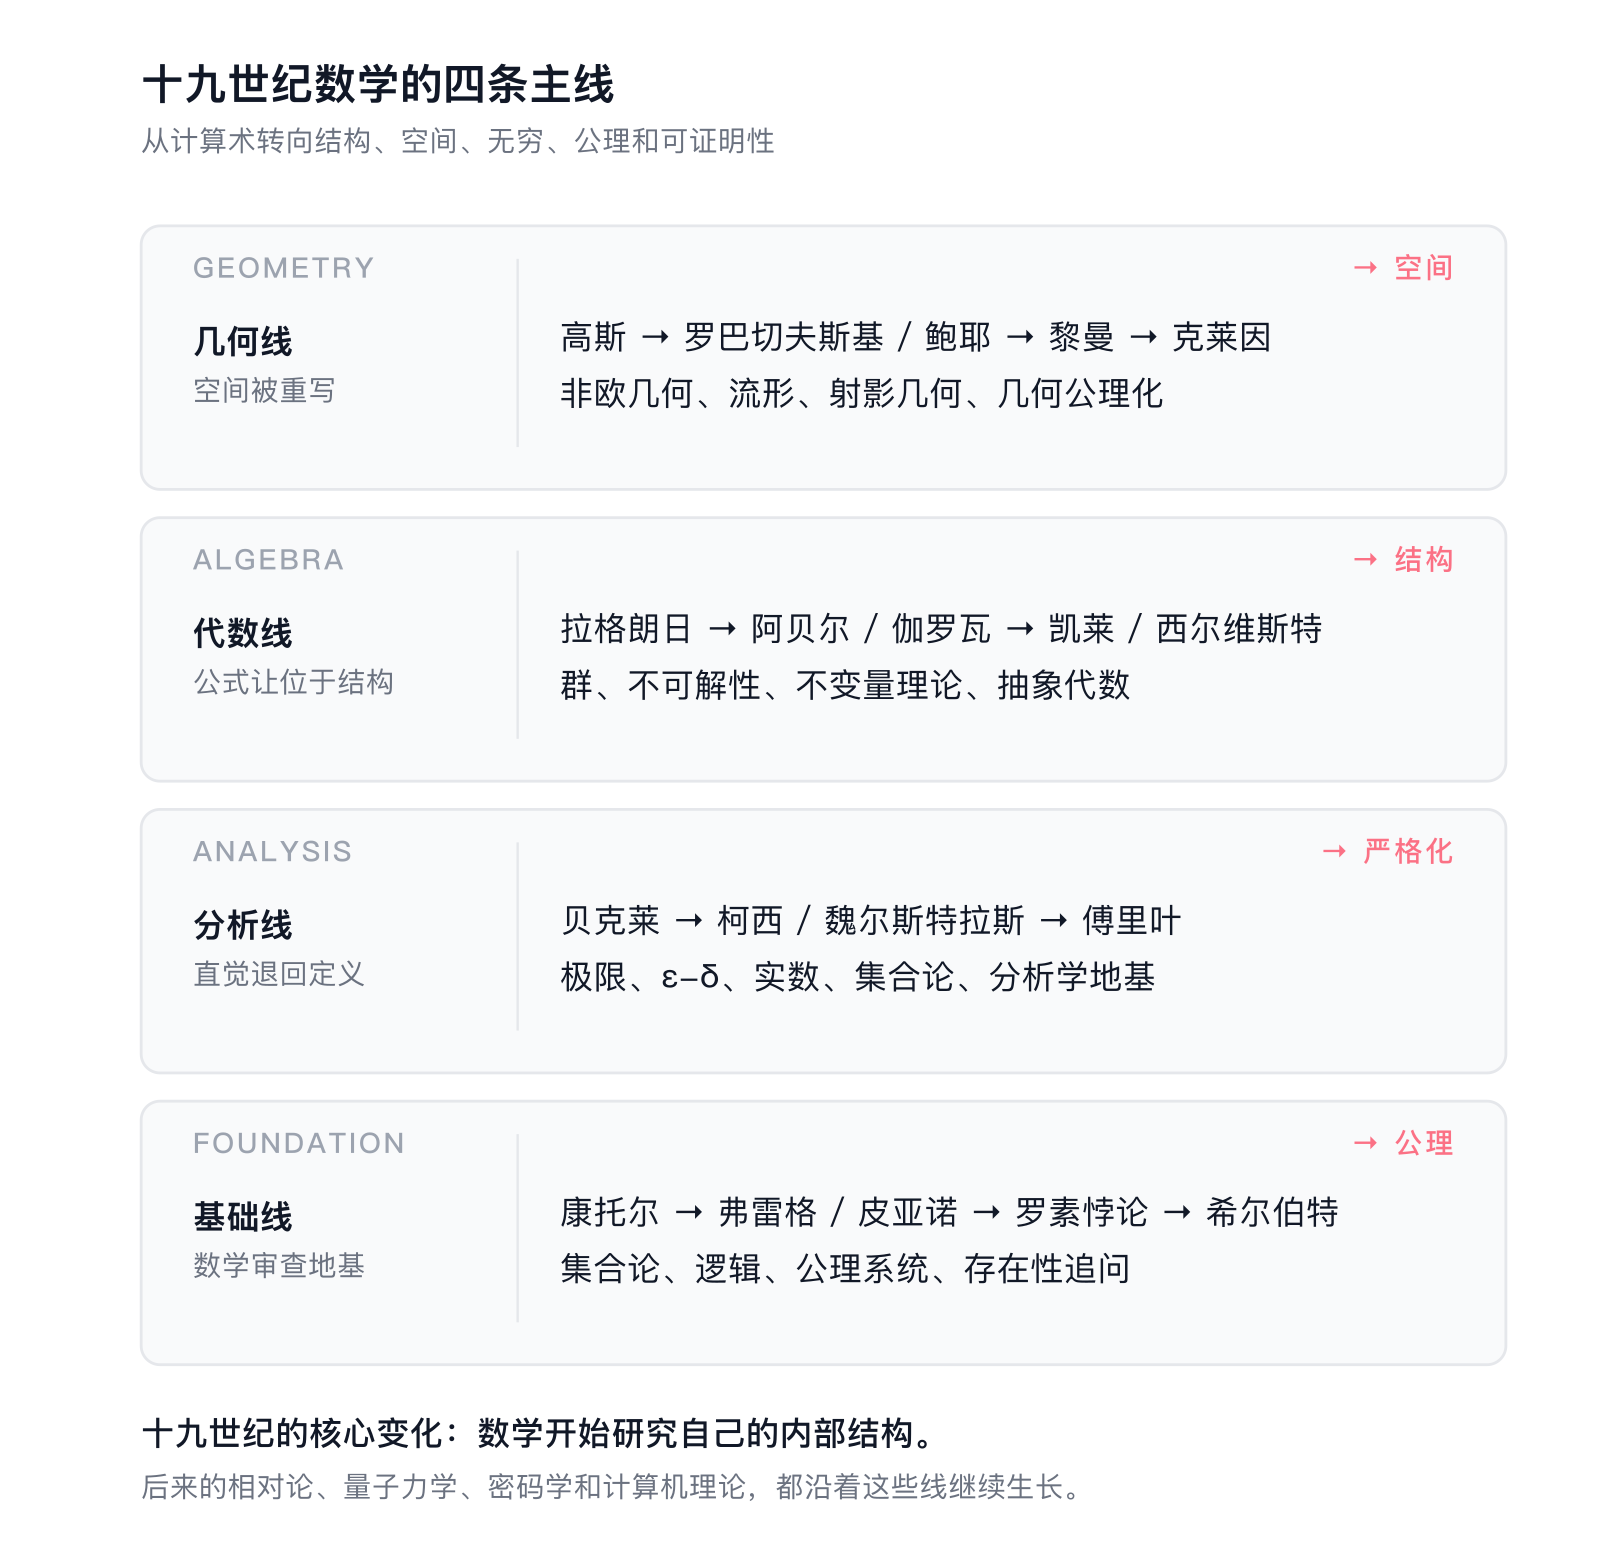
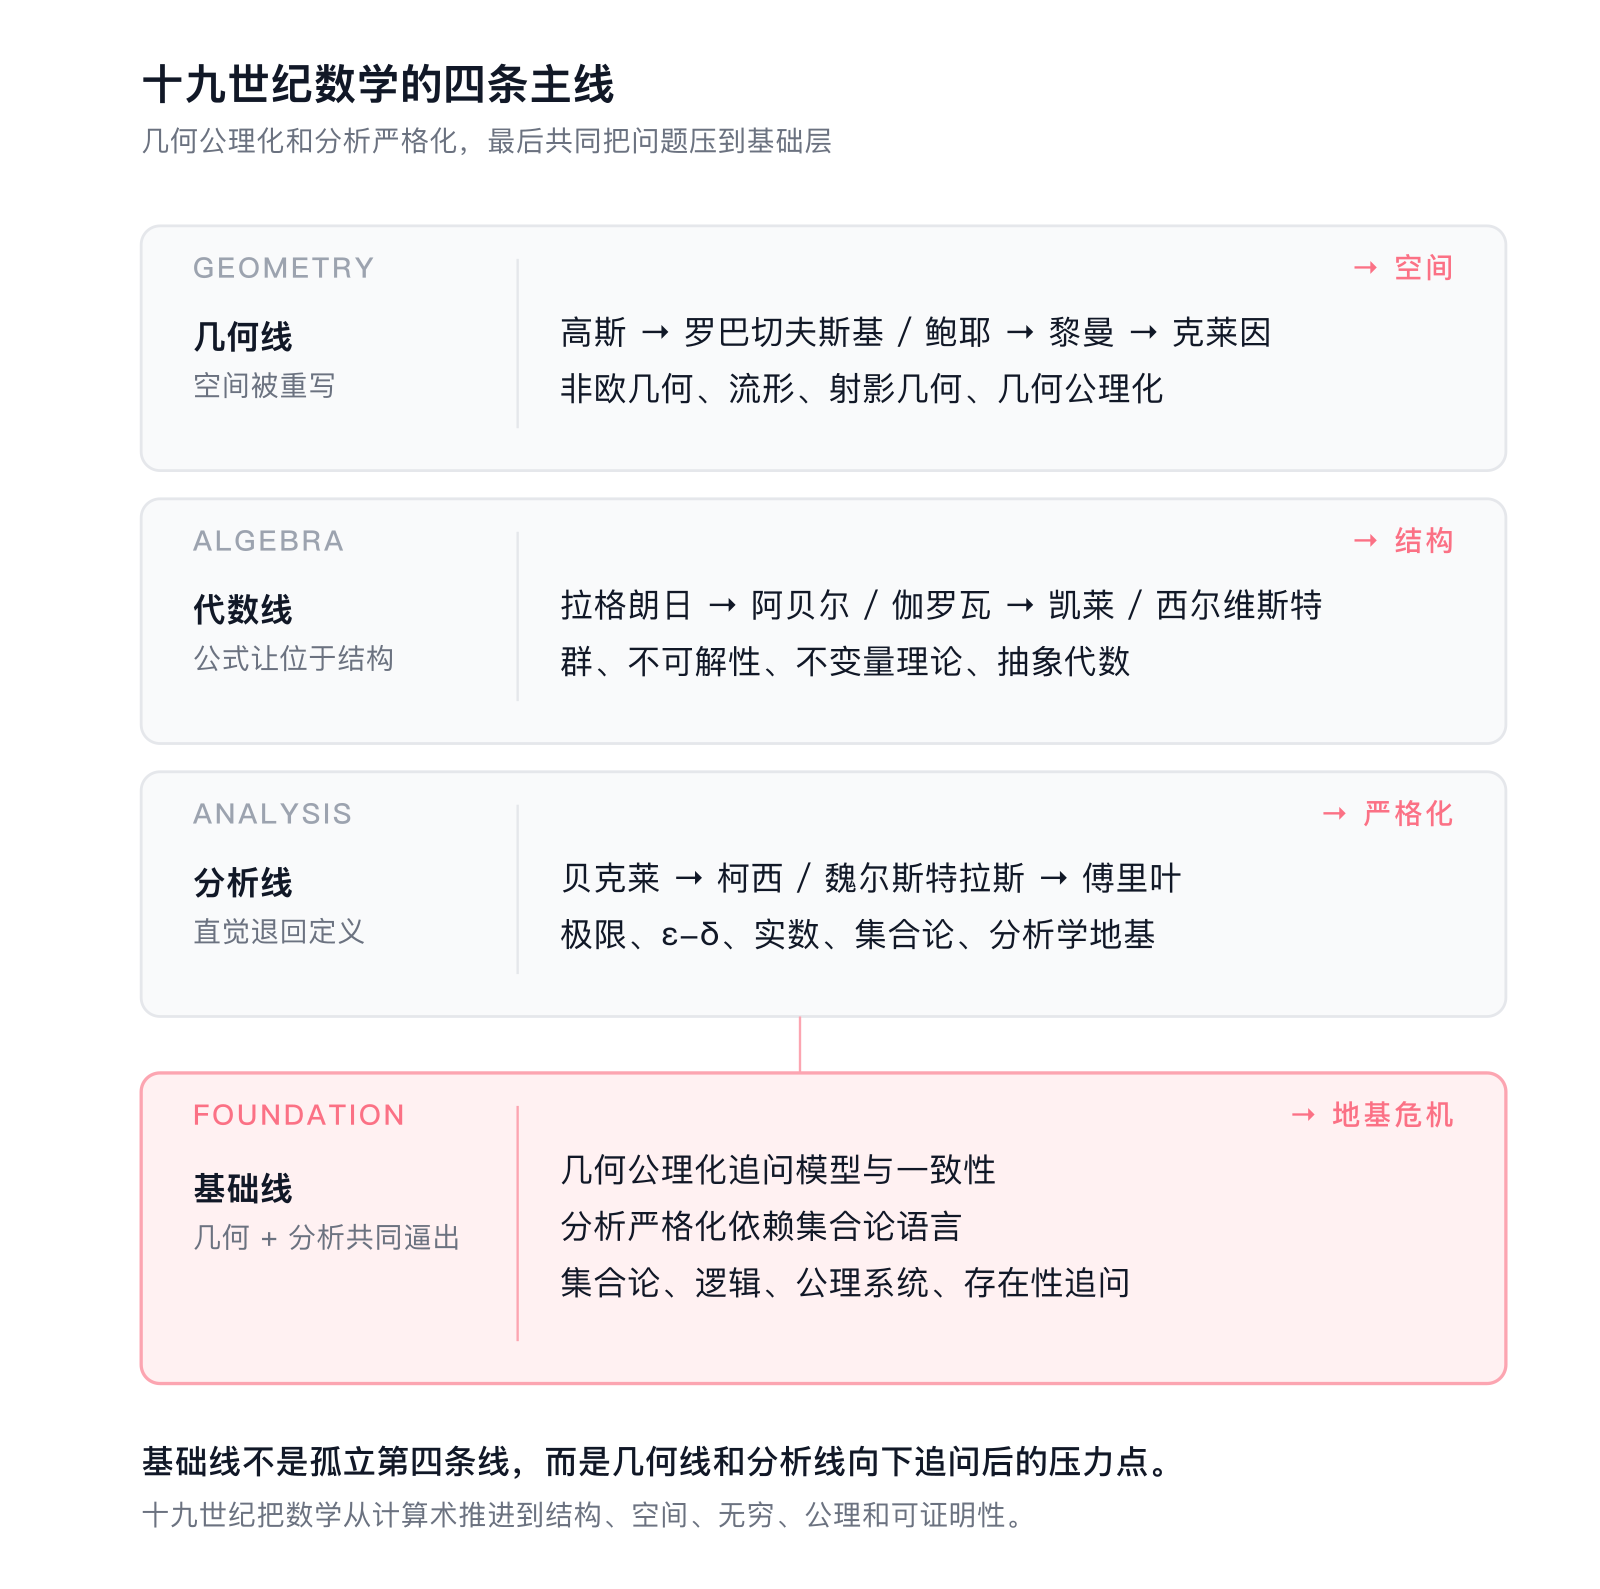
Revise nineteenth century math lines diagram

diff --git a/diagram/math-19th-century-four-lines/plan.md b/diagram/math-19th-century-four-lines/plan.md
@@ -4,28 +4,30 @@
 **Diagrams**: 1
 **Type**: structural, stacked sibling containers
 **Slug**: `math-19th-century-four-lines`
-**Reader need**: "After seeing this diagram, the reader understands the four nineteenth-century mathematical lines and what each line finally formed."
+**Reader need**: "After seeing this diagram, the reader understands the four nineteenth-century mathematical lines, especially that foundations is the pressure point produced by geometry axiomatization and analysis rigorization."
 
 ```mermaid
 flowchart TD
   G[几何线<br/>高斯 → 罗巴切夫斯基/鲍耶 → 黎曼 → 克莱因<br/>非欧几何、流形、射影几何、公理化]
   A[代数线<br/>拉格朗日 → 阿贝尔/伽罗瓦 → 凯莱/西尔维斯特 → 希尔伯特<br/>群、结构、不可解性、不变量理论]
   N[分析线<br/>贝克莱 → 柯西/魏尔斯特拉斯 → 傅里叶 → 康托尔/戴德金<br/>极限、ε-δ、实数、集合论、严格化]
-  F[基础线<br/>康托尔 → 弗雷格/皮亚诺 → 罗素悖论 → 希尔伯特问题<br/>集合论、逻辑、公理系统、地基追问]
+  F[基础线<br/>几何公理化 + 分析严格化共同逼出<br/>集合论、逻辑、公理系统、地基追问]
+  G --> F
+  N --> F
 ```
 
 ## Layout
 
-- Canvas: `viewBox="0 0 680 655"`
+- Canvas: `viewBox="0 0 680 675"`
 - Title: y=42, subtitle: y=64
 - Four containers:
-  - Geometry: x=60, y=96, w=580, h=112
-  - Algebra: x=60, y=220, w=580, h=112
-  - Analysis: x=60, y=344, w=580, h=112
-  - Foundations: x=60, y=468, w=580, h=112
+  - Geometry: x=60, y=96, w=580, h=104
+  - Algebra: x=60, y=212, w=580, h=104
+  - Analysis: x=60, y=328, w=580, h=104
+  - Foundations: x=60, y=456, w=580, h=132, highlighted as the pressure point
 - Footer:
-  - caption-strong y=614
-  - caption y=636
+  - caption-strong y=626
+  - caption y=648
 
 ## Labels
 
@@ -38,8 +40,9 @@ flowchart TD
 - 分析线 / 直觉退回定义 / `→ 严格化`
   - 贝克莱 → 柯西 / 魏尔斯特拉斯 → 傅里叶
   - 极限、ε-δ、实数、集合论、分析学地基
-- 基础线 / 数学审查地基 / `→ 公理`
-  - 康托尔 → 弗雷格 / 皮亚诺 → 罗素悖论 → 希尔伯特
+- 基础线 / 几何 + 分析共同逼出 / `→ 地基危机`
+  - 几何公理化追问模型与一致性
+  - 分析严格化依赖集合论语言
   - 集合论、逻辑、公理系统、存在性追问
 
 ## Checks
@@ -47,4 +50,4 @@ flowchart TD
 - No rect extends past x=640.
 - All text uses project classes.
 - No SVG comments.
-- Accent used only for right-side tags and footer emphasis.
+- Accent used for the foundation layer to mark that it is the pressure point produced by the geometry and analysis lines, not an isolated fourth list item.
